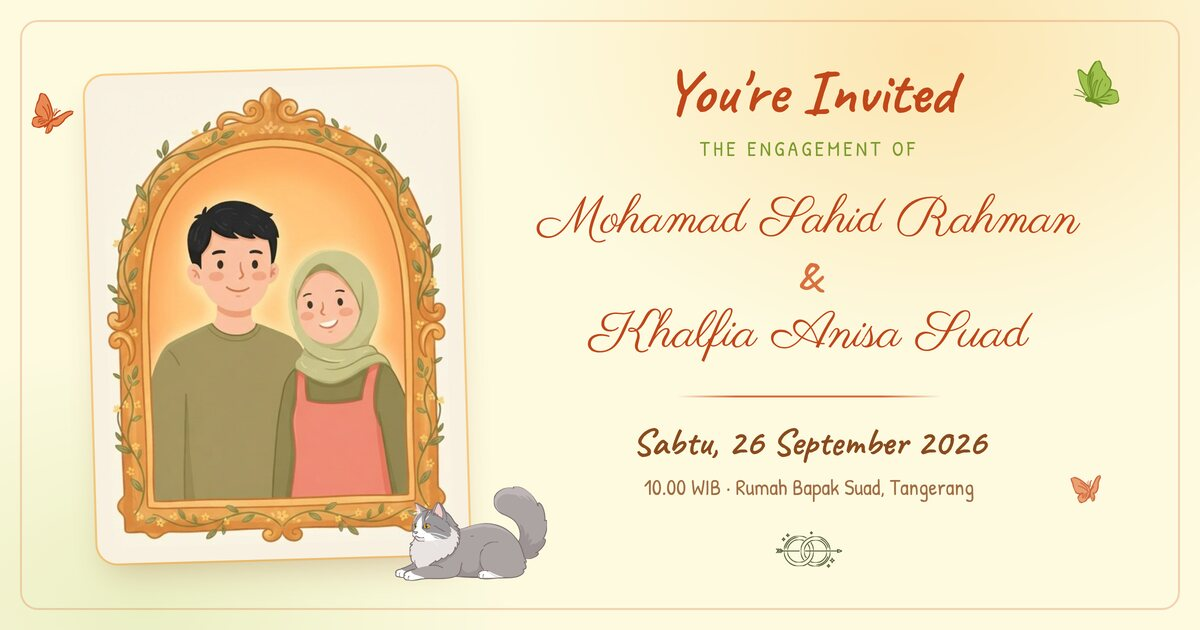
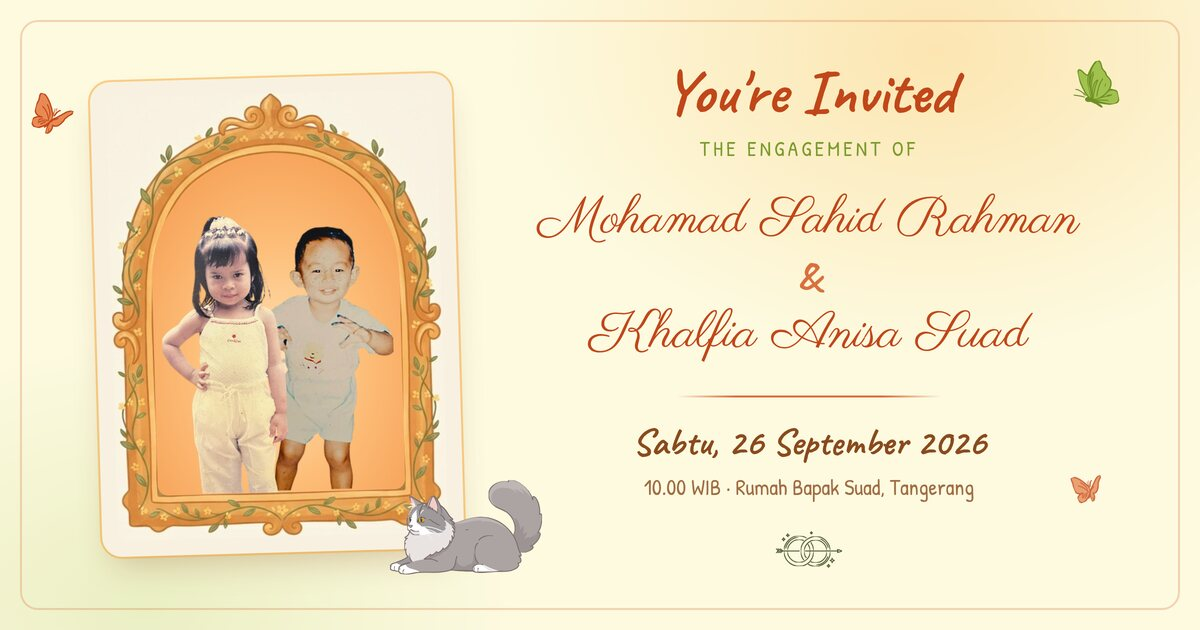
Show the childhood photo on the share card, and make it regenerable
The card was baked straight into a jpg with no source, so changing the date or
the artwork meant rebuilding the layout from scratch. tools/og-card.html is
that source, authored at 1200x630 with relative paths, and tools/build-og.sh
renders it through headless Chrome and encodes the jpg.

The card now carries couple-childhood.png rather than the drawn couple, laid
into the frame the way the closing screen does it. styles.css states the arch
as percentages of a 210x300 box showing frame-couple.jpg with `cover`; the card
crops the same jpg tight to the frame, so those percentages are restated
against that crop and land on the same pixels. The crop itself is percentage
based too, which keeps the template resolution independent — no pre-cropped
intermediate to keep in sync.

The script warns past ~300 KB, the point where WhatsApp starts dropping the
image and falling back to a text-only preview.

Claude-Session: https://claude.ai/code/session_01RwkKWzzDjaA5C1zaGYb5Er

Changed region(s): [[0.0617, 0.0905, 0.4625, 0.9349]]

diff --git a/tools/og-card.html b/tools/og-card.html
@@ -1,0 +1,273 @@
+<!doctype html>
+<html lang="id">
+<head>
+<meta charset="utf-8">
+<title>Share card source — Rahman &amp; Fia</title>
+
+<!--
+  Source for assets/img/og-cover.jpg, the 1200x630 card chat apps and timelines
+  show when the invitation is shared. Run tools/build-og.sh to re-render it.
+
+  Open this file directly in a browser to preview; it is authored at exactly
+  1200x630 CSS px and every asset path is relative, so nothing here depends on
+  where the repo is checked out.
+-->
+
+<style>
+  /* The invitation's own subsets, so the card is lettered in the real faces
+     rather than whatever the rendering machine happens to have installed. */
+  @font-face {
+    font-family: Caveat;
+    src: url('../assets/fonts/caveat-latin.woff2') format('woff2');
+    font-weight: 400 700; font-display: block;
+  }
+  @font-face {
+    font-family: Parisienne;
+    src: url('../assets/fonts/parisienne-latin.woff2') format('woff2');
+    font-weight: 400; font-display: block;
+  }
+  @font-face {
+    font-family: 'Patrick Hand';
+    src: url('../assets/fonts/patrick-hand-latin.woff2') format('woff2');
+    font-weight: 400; font-display: block;
+  }
+
+  :root {
+    --cream: #FDFAE0;
+    --amber: #F5A93C;
+    --terracotta: #C1471A;
+    --terracotta-soft: #D9713E;
+    --olive-deep: #7C9B2E;
+    --ink: #8A4A1E;
+
+    /* The artwork's own paper tone. The mount is painted this colour so the
+       jpg's baked-in background meets it without a visible seam. */
+    --frame-paper: #F8F1E1;
+  }
+
+  * { margin: 0; padding: 0; box-sizing: border-box; }
+
+  html, body { width: 1200px; height: 630px; }
+
+  body {
+    position: relative;
+    overflow: hidden;
+    background: var(--cream);
+    color: var(--ink);
+    font-family: 'Patrick Hand', sans-serif;
+    -webkit-font-smoothing: antialiased;
+  }
+
+  /* Warm light from the top right, echoing the glow behind the couple. */
+  .glow {
+    position: absolute;
+    inset: 0;
+    background:
+      radial-gradient(58% 78% at 78% 8%,  rgb(251 212 138 / .55) 0%, rgb(251 212 138 / 0) 62%),
+      radial-gradient(46% 62% at 12% 96%, rgb(162 194  79 / .20) 0%, rgb(162 194  79 / 0) 68%);
+  }
+
+  /* Hairline keyline, inset like the ruled border of a printed invitation. */
+  .keyline {
+    position: absolute;
+    inset: 20px;
+    border: 2px solid rgb(217 113 62 / .28);
+    border-radius: 18px;
+  }
+
+  .card {
+    position: relative;
+    height: 100%;
+    display: grid;
+    grid-template-columns: 430px 1fr;
+    align-items: center;
+    padding: 0 74px 0 62px;
+  }
+
+  /* ── Left: the frame, mounted like a print on the cream ground ────── */
+  .mount {
+    position: relative;
+    justify-self: center;
+    padding: 16px;
+    border-radius: 20px;
+    background: var(--frame-paper);
+    box-shadow:
+      0 0 0 2px rgb(245 169 60 / .55),
+      0 18px 34px -12px rgb(138 74 30 / .32);
+    rotate: -1.6deg;
+  }
+
+  /* frame-couple.jpg carries a wide cream margin around the drawn frame, which
+     would read as dead space at this size. The window below is the frame's own
+     bounding box (482x647 at +96+120 of the 672x900 original); .mount__frame is
+     scaled and offset in percentages so the crop holds at any width. */
+  .mount__art {
+    position: relative;
+    width: 330px;
+    aspect-ratio: 482 / 647;
+    border-radius: 10px;
+    overflow: hidden;
+  }
+  .mount__frame {
+    position: absolute;
+    width: 139.4191%;    /* 672/482 */
+    height: 139.1036%;   /* 900/647 */
+    left: -19.9170%;     /* -96/482 */
+    top: -18.5471%;      /* -120/647 */
+  }
+
+  /* The childhood photo sits in an arch laid over the drawn couple, exactly as
+     the closing screen does it (see .collage__arch in styles.css). The site
+     states these as % of a 210x300 box showing the jpg with `cover`; restated
+     here against the crop above, they land on the same pixels. The radii and
+     the inner padding are % of the arch itself, so they carry over unchanged. */
+  .arch {
+    position: absolute;
+    left: 12.4500%;
+    top: 13.4467%;
+    width: 74.9988%;
+    height: 76.6182%;
+    display: flex;
+    align-items: flex-end;
+    justify-content: center;
+    padding-inline: 2.49%;
+    border-radius: 50% 50% 4.15% 4.15% / 36.46% 36.46% 3.03% 3.03%;
+    background: radial-gradient(ellipse 62.5% 62.5% at 50% 62%,
+                #FFE3B8 0%, #FDBE79 55%, #F7A55C 100%);
+    overflow: hidden;
+  }
+  .arch__photo { width: 100%; height: 82.02%; object-fit: cover; object-position: top; }
+
+  .mount__cat {
+    position: absolute;
+    right: -78px;
+    bottom: -30px;
+    width: 152px;
+    height: 100px;
+    rotate: 1.6deg;                          /* cancels the mount tilt, so the cat sits level */
+  }
+
+  /* ── Right: the words ─────────────────────────────────────────────── */
+  .copy {
+    position: relative;
+    display: flex;
+    flex-direction: column;
+    align-items: center;
+    text-align: center;
+    gap: 2px;
+  }
+
+  .copy__eyebrow {
+    font-family: Caveat, cursive;
+    font-size: 62px;
+    font-weight: 700;
+    line-height: 1.1;
+    color: var(--terracotta);
+  }
+
+  .copy__kicker {
+    font-size: 21px;
+    letter-spacing: .16em;
+    text-transform: uppercase;
+    color: var(--olive-deep);
+    margin-top: 6px;
+  }
+
+  .names {
+    display: flex;
+    flex-direction: column;
+    align-items: center;
+    gap: 2px;
+    margin-top: 22px;
+    font-family: Parisienne, cursive;
+    font-size: 52px;
+    line-height: 1.28;
+    color: var(--terracotta);
+  }
+  .names__amp {
+    font-family: Caveat, cursive;
+    font-size: 40px;
+    font-weight: 700;
+    line-height: 1;
+    color: var(--terracotta-soft);
+    margin: 2px 0;
+  }
+
+  .rule {
+    width: 264px;
+    height: 2px;
+    border-radius: 1px;
+    background: linear-gradient(90deg,
+      rgb(217 113 62 / 0) 0%, var(--terracotta-soft) 22%,
+      var(--terracotta-soft) 78%, rgb(217 113 62 / 0) 100%);
+    margin: 26px 0 20px;
+  }
+
+  .when {
+    font-family: Caveat, cursive;
+    font-size: 38px;
+    font-weight: 700;
+    line-height: 1.2;
+    color: var(--ink);
+  }
+  .where {
+    font-size: 22px;
+    line-height: 1.45;
+    color: var(--ink);
+    opacity: .8;
+    margin-top: 4px;
+  }
+
+  .rings {
+    width: 96px;
+    height: 45px;
+    margin-top: 22px;
+    opacity: .95;
+  }
+
+  /* ── Fluttering bits ──────────────────────────────────────────────── */
+  .flutter { position: absolute; }
+  .flutter--a { right: 84px; top: 62px;     width: 44px; height: 47px; rotate: -12deg; }
+  .flutter--b { left: 34px;  top: 96px;     width: 38px; height: 39px; rotate: 14deg; }
+  .flutter--c { right: 96px; bottom: 128px; width: 30px; height: 30px; rotate: -22deg; opacity: .8; }
+</style>
+</head>
+<body>
+  <div class="glow"></div>
+  <div class="keyline"></div>
+
+  <div class="card">
+    <div class="mount">
+      <div class="mount__art">
+        <img class="mount__frame" src="../assets/img/frame-couple.jpg" alt="">
+        <div class="arch">
+          <img class="arch__photo" src="../assets/img/couple-childhood.png" alt="">
+        </div>
+      </div>
+      <img class="mount__cat" src="../assets/svg/cat-bubu.svg" alt="">
+    </div>
+
+    <div class="copy">
+      <p class="copy__eyebrow">You're Invited</p>
+      <p class="copy__kicker">The Engagement Of</p>
+
+      <p class="names">
+        <span>Mohamad Sahid Rahman</span>
+        <span class="names__amp">&amp;</span>
+        <span>Khalfia Anisa Suad</span>
+      </p>
+
+      <span class="rule"></span>
+
+      <p class="when">Sabtu, 26 September 2026</p>
+      <p class="where">10.00 WIB · Rumah Bapak Suad, Tangerang</p>
+
+      <img class="rings" src="../assets/svg/rings.svg" alt="">
+    </div>
+  </div>
+
+  <img class="flutter flutter--a" src="../assets/svg/butterfly-a.svg" alt="">
+  <img class="flutter flutter--b" src="../assets/svg/butterfly-b.svg" alt="">
+  <img class="flutter flutter--c" src="../assets/svg/butterfly-b.svg" alt="">
+</body>
+</html>
